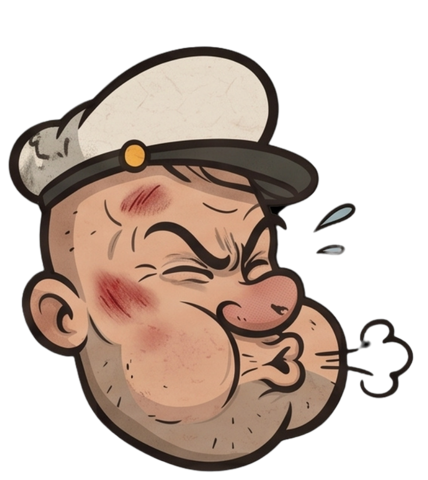
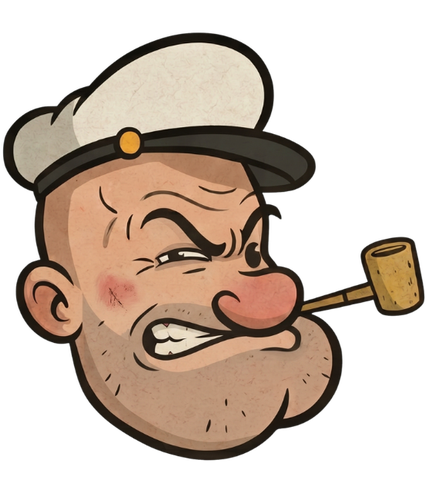
v1.64: ana yüzler geri, darbe alınca pu + ağıran yüz tepkisi
Claude-Session: https://claude.ai/code/session_01LDwZLyZhG3Us8fbnE3d5s4

diff --git a/www/index.html b/www/index.html
@@ -38,7 +38,7 @@ canvas{cursor:crosshair}.etiket,.ipucu{pointer-events:none}
 <link rel="stylesheet" href="https://fonts.googleapis.com/css2?family=Bangers&family=Nunito:wght@700;800&display=swap">
 
 <canvas id="c"></canvas>
-<div class="etiket"><b>POPEYE FIGHTER</b>v1.63</div>
+<div class="etiket"><b>POPEYE FIGHTER</b>v1.64</div>
 <div class="ipucu">← → yürü &nbsp; ↑ zıpla &nbsp; J yumruk &nbsp; K tekme &nbsp; ↓ çömel &nbsp; <b>sağ/sol yarıya tık tık: kombo &nbsp; sürükle: sağ yarı ön kol, sol yarı arka kol</b></div>
 <div class="tus" id="asa">▼</div><div class="tus" id="sol">◀</div><div class="tus" id="sag">▶</div><div class="tus" id="zipla">▲</div>
 <div class="mini" id="sens">🎮 SENSÖR: KAPALI</div><div class="mini" id="sifir">⟲ Dengele</div>
@@ -69,11 +69,13 @@ ADLAR.forEach(a=>{
   im.onerror=()=>{document.getElementById('yuk').textContent='Parça yüklenemedi: '+a};
   im.src='parca/'+a+'.png?v=37';          // ?v= : görsel değişince tarayıcı eski önbelleği kullanmasın
 });
-const YUZ=[];                      // can göstergesi: 0 = tam can ... 9 = en kötü (ölünce de 9)
-for(let i=0;i<10;i++){const im=new Image();im.src='yuz/yuz'+i+'.png?v=40';YUZ.push(im)}
-const YUZA=[];                     // ağıran (darbe) yüzleri: 0-9 can aralıkları, 10 = can 0
-for(let i=0;i<11;i++){const im=new Image();im.src='yuz/yuzA'+i+'.png?v=40';YUZA.push(im)}
-function yuzNo(hp){return hp<=0?9:Math.min(9,Math.floor((100-hp)/10))}   // 100→0, 90-81→1 ... 10-1→9, 0→9
+const YUZ=[];                      // ana yüz: 0 = tam can ... 9 = çok az can, 10 = ölü
+for(let i=0;i<11;i++){const im=new Image();im.src='yuz/yuz'+i+'.png?v=41';YUZ.push(im)}
+const YUZH=[];                     // darbe tepkisi 1: 'pu' yüzü (0-9 can aralıkları)
+for(let i=0;i<10;i++){const im=new Image();im.src='yuz/yuzH'+i+'.png?v=41';YUZH.push(im)}
+const YUZA=[];                     // darbe tepkisi 2: ağıran yüz (0-9 can aralıkları, 10 = can 0)
+for(let i=0;i<11;i++){const im=new Image();im.src='yuz/yuzA'+i+'.png?v=41';YUZA.push(im)}
+function yuzNo(hp){return hp<=0?10:Math.min(9,Math.floor((100-hp)/10))}   // 100-91→0, 90-81→1 ... 10-1→9, 0→10
 
 // ---------- Ayarlar (parça birimi) ----------
 const CR_H=320;                 // çömelmede kalça yüksekliği
@@ -1372,7 +1374,7 @@ function karakter(){
   ctx.save();ctx.translate(BON,0);bacak(N.l,N.k,N.a,false);ctx.restore();   // yakın bacak kalçanın önünde
   govdeUzayi(()=>{ ctx.scale(1.1,1.1);resim(R.govde,97.7,246.4); });      // gövde (%10 büyük) karnıyla kalçanın üstüne biner
   govdeUzayi(()=>{
-    ctx.save();ctx.translate(-8,-262);ctx.rotate(P.bas*D);ctx.translate(5/SC,0);{if(S.hp<(S._lh==null?S.hp:S._lh))S.agT=S.t+0.6;S._lh=S.hp;const ag=S.hp<=0||S.t<(S.agT||0);const fy=ag?YUZA[S.hp<=0?10:yuzNo(S.hp)]:YUZ[yuzNo(S.hp)];fy&&fy.complete&&fy.naturalWidth?ctx.drawImage(fy,-106.8,-213.8,228.7,256.6):ctx.drawImage(R.kafa,-85,-170,182,204)}ctx.restore();
+    ctx.save();ctx.translate(-8,-262);ctx.rotate(P.bas*D);ctx.translate(5/SC,0);{if(S.hp<(S._lh==null?S.hp:S._lh))S.agT0=S.t;S._lh=S.hp;const ph=S.t-(S.agT0==null?-9:S.agT0),lv=Math.min(9,Math.floor((100-Math.max(S.hp,1))/10));const fy=ph>=0&&ph<0.35?YUZH[lv]:ph>=0&&ph<0.8?YUZA[S.hp<=0?10:lv]:YUZ[yuzNo(S.hp)];fy&&fy.complete&&fy.naturalWidth?ctx.drawImage(fy,-106.8,-213.8,228.7,256.6):ctx.drawImage(R.kafa,-85,-170,182,204)}ctx.restore();
     kol(-59,-149,P.aNu,P.aNr,'N',false,1.1);         // yakın kol (%10 büyük)
   });
   ctx.restore();
